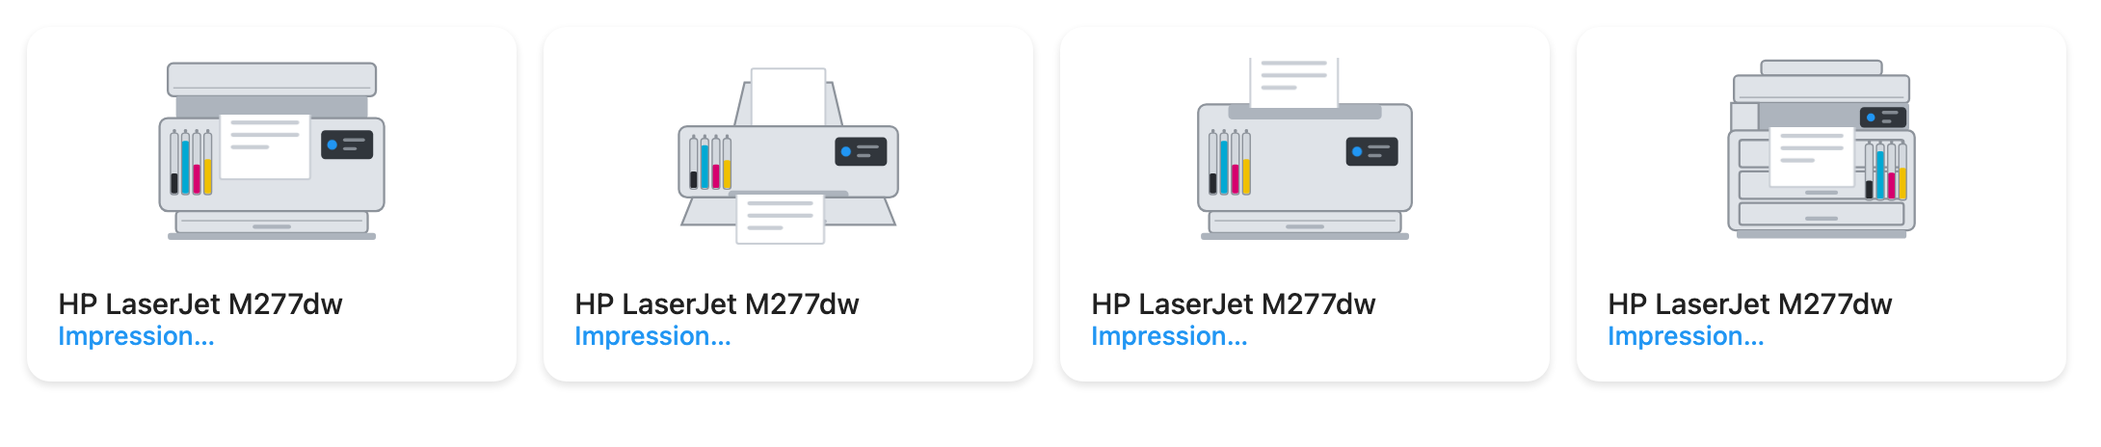
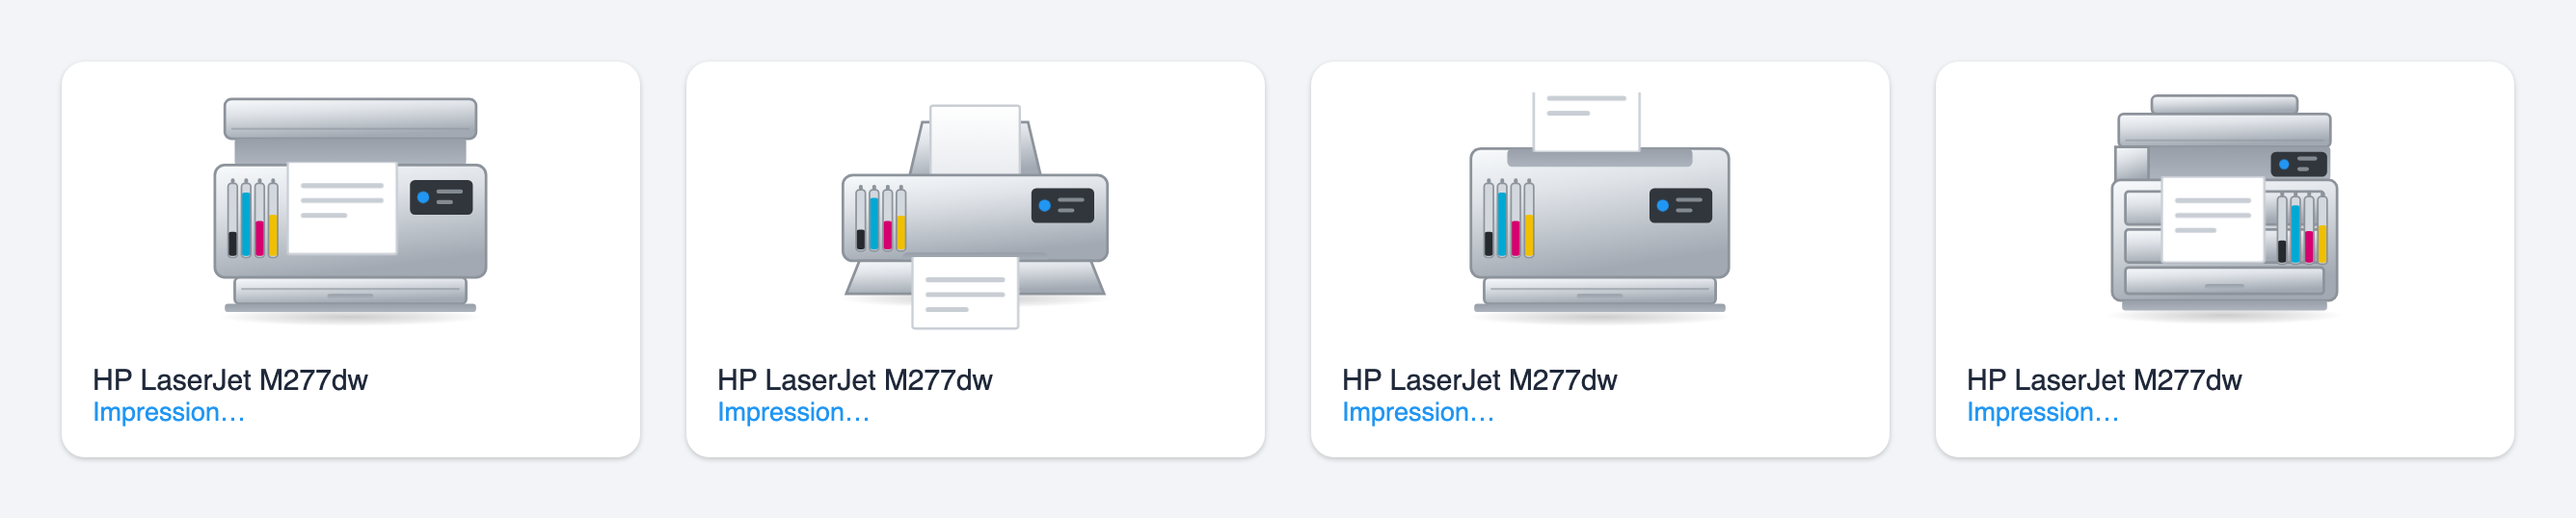
chore: v1.3.1
Refresh the screenshots at 1.3.0 and add one for the layouts.

The hero shot and the four models were taken before the drawings got
their relief, and nothing showed the side layout at all. Both are
retaken, and a third image puts the full card, compact: side and
compact: true next to each other with the same printer and the same
levels, so only the layout differs.

diff --git a/dist/ha-printer-card.js b/dist/ha-printer-card.js
@@ -1,4 +1,4 @@
-const CARD_VERSION = "1.3.0";
+const CARD_VERSION = "1.3.1";
 
 console.info(
   "%c HA-PRINTER-CARD %c v" + CARD_VERSION + " ",

diff --git a/README.fr.md b/README.fr.md
@@ -42,6 +42,10 @@ Les quatre modèles, ici avec `cartridge_style: inside` :
 
 [![Les quatre modèles](https://raw.githubusercontent.com/ADNPolymerase/ha-printer-card/main/docs/models.fr.png)](https://raw.githubusercontent.com/ADNPolymerase/ha-printer-card/main/docs/models.fr.png)
 
+Les trois dispositions, réglées avec `compact` :
+
+[![Les trois dispositions](https://raw.githubusercontent.com/ADNPolymerase/ha-printer-card/main/docs/layouts.fr.png)](https://raw.githubusercontent.com/ADNPolymerase/ha-printer-card/main/docs/layouts.fr.png)
+
 ## Intégrations
 
 Rien à configurer : désignez le capteur d'état de l'imprimante et la carte lit le reste sur le même appareil.

diff --git a/README.md b/README.md
@@ -42,6 +42,10 @@ The four models, here with `cartridge_style: inside`:
 
 [![The four models](https://raw.githubusercontent.com/ADNPolymerase/ha-printer-card/main/docs/models.png)](https://raw.githubusercontent.com/ADNPolymerase/ha-printer-card/main/docs/models.png)
 
+The three layouts, set with `compact`:
+
+[![The three layouts](https://raw.githubusercontent.com/ADNPolymerase/ha-printer-card/main/docs/layouts.png)](https://raw.githubusercontent.com/ADNPolymerase/ha-printer-card/main/docs/layouts.png)
+
 ## Integrations
 
 Nothing to configure: point the card at the printer's status sensor and it reads the rest off the same device.
